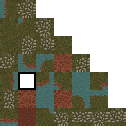
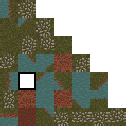
fixed river banks

diff --git a/core/src/com/boxhead/builder/World.java b/core/src/com/boxhead/builder/World.java
@@ -137,48 +137,52 @@ public class World {
 
         for (int i = 0; i < tiles.length; i++) {
             if (tiles[i].equals(Tile.WATER)) {
-                Textures.Tile texture = Tile.WATER.textures[random.nextInt(tiles[i].textures.length)];
-                boolean[] neighbours = new boolean[8];  //clockwise
-                neighbours[0] = i < (worldSize.y-1) * worldSize.x && tiles[i+worldSize.x].equals(Tile.GRASS);
-                neighbours[1] = i < (worldSize.y-1) * worldSize.x && tiles[i+1+worldSize.x].equals(Tile.GRASS);
-                neighbours[2] = i < tiles.length - 1 && tiles[i+1].equals(Tile.GRASS);
-                neighbours[3] = i < tiles.length - 1 && i > worldSize.x && tiles[i+1-worldSize.x].equals(Tile.GRASS);
-                neighbours[4] = i > worldSize.x && tiles[i-worldSize.x].equals(Tile.GRASS);
-                neighbours[5] = i > worldSize.x && tiles[i-1-worldSize.x].equals(Tile.GRASS);
-                neighbours[6] = i > 0 && tiles[i-1].equals(Tile.GRASS);
-                neighbours[7] = i > 0 && i < (worldSize.y-1) * worldSize.x && tiles[i-1+worldSize.x].equals(Tile.GRASS);
+                /*
+                0 1 2
+                3   4
+                5 6 7
+                 */
+                boolean[] neighbours = new boolean[8];
+                int ni = 0;
+                for (int y = 1; y >= -1; y--) {
+                    for (int x = -1; x <= 1; x++) {
+                        if (y == 0 && x == 0) continue;
+                        int ti = i + y * worldSize.x + x;
+                        if (ti >= 0 && ti < tiles.length)
+                            neighbours[ni] = tiles[ti].equals(Tile.GRASS);
+                        else
+                            neighbours[ni] = false;
+                        ni++;
+                    }
+                }
 
-                if (neighbours[0]) {
-                    if (neighbours[2])
-                        texture = Textures.Tile.BANK_TR;
-                    else if (neighbours[6])
-                        texture = Textures.Tile.BANK_TL;
-                    else
-                        texture = Textures.Tile.BANK_T;
+                StringBuilder textureName = new StringBuilder();
+
+                if (neighbours[1] && neighbours[6]) {
+                    tiles[i] = Tile.GRASS;
+                    tileTextures[i] = Tile.GRASS.textures[random.nextInt(tiles[i].textures.length)];
+                    continue;
                 }
-                else if (neighbours[4]) {
+
+                if (neighbours[1]) textureName.append("T");
+                else if (neighbours[6]) textureName.append("B");
+
+                if (neighbours[4] || (neighbours[2] && neighbours[7])) textureName.append("R");
+                else if (neighbours[3] || (neighbours[5] && neighbours[0])) textureName.append("L");
+
+                if (textureName.isEmpty()) {
                     if (neighbours[2])
-                        texture = Textures.Tile.BANK_BR;
-                    else if (neighbours[6])
-                        texture = Textures.Tile.BANK_BL;
-                    else
-                        texture = Textures.Tile.BANK_B;
-                }
-                else {
-                    if (neighbours[2])
-                        texture = Textures.Tile.BANK_R;
-                    else if (neighbours[6])
-                        texture = Textures.Tile.BANK_L;
-                    else if (neighbours[1])
-                        texture = Textures.Tile.BANK_TRO;
-                    else if (neighbours[3])
-                        texture = Textures.Tile.BANK_BRO;
-                    else if (neighbours[5])
-                        texture = Textures.Tile.BANK_BLO;
+                        textureName.append("TRO");
                     else if (neighbours[7])
-                        texture = Textures.Tile.BANK_TLO;
+                        textureName.append("BRO");
+                    else if (neighbours[5])
+                        textureName.append("BLO");
+                    else if (neighbours[0])
+                        textureName.append("TLO");
                 }
-                tileTextures[i] = texture;
+
+                if (!textureName.isEmpty()) tileTextures[i] = Textures.Tile.valueOf(textureName.insert(0, "BANK_").toString());
+                else tileTextures[i] = Tile.WATER.textures[random.nextInt(tiles[i].textures.length)];
             }
             else
                 tileTextures[i] = tiles[i].textures[random.nextInt(tiles[i].textures.length)];
